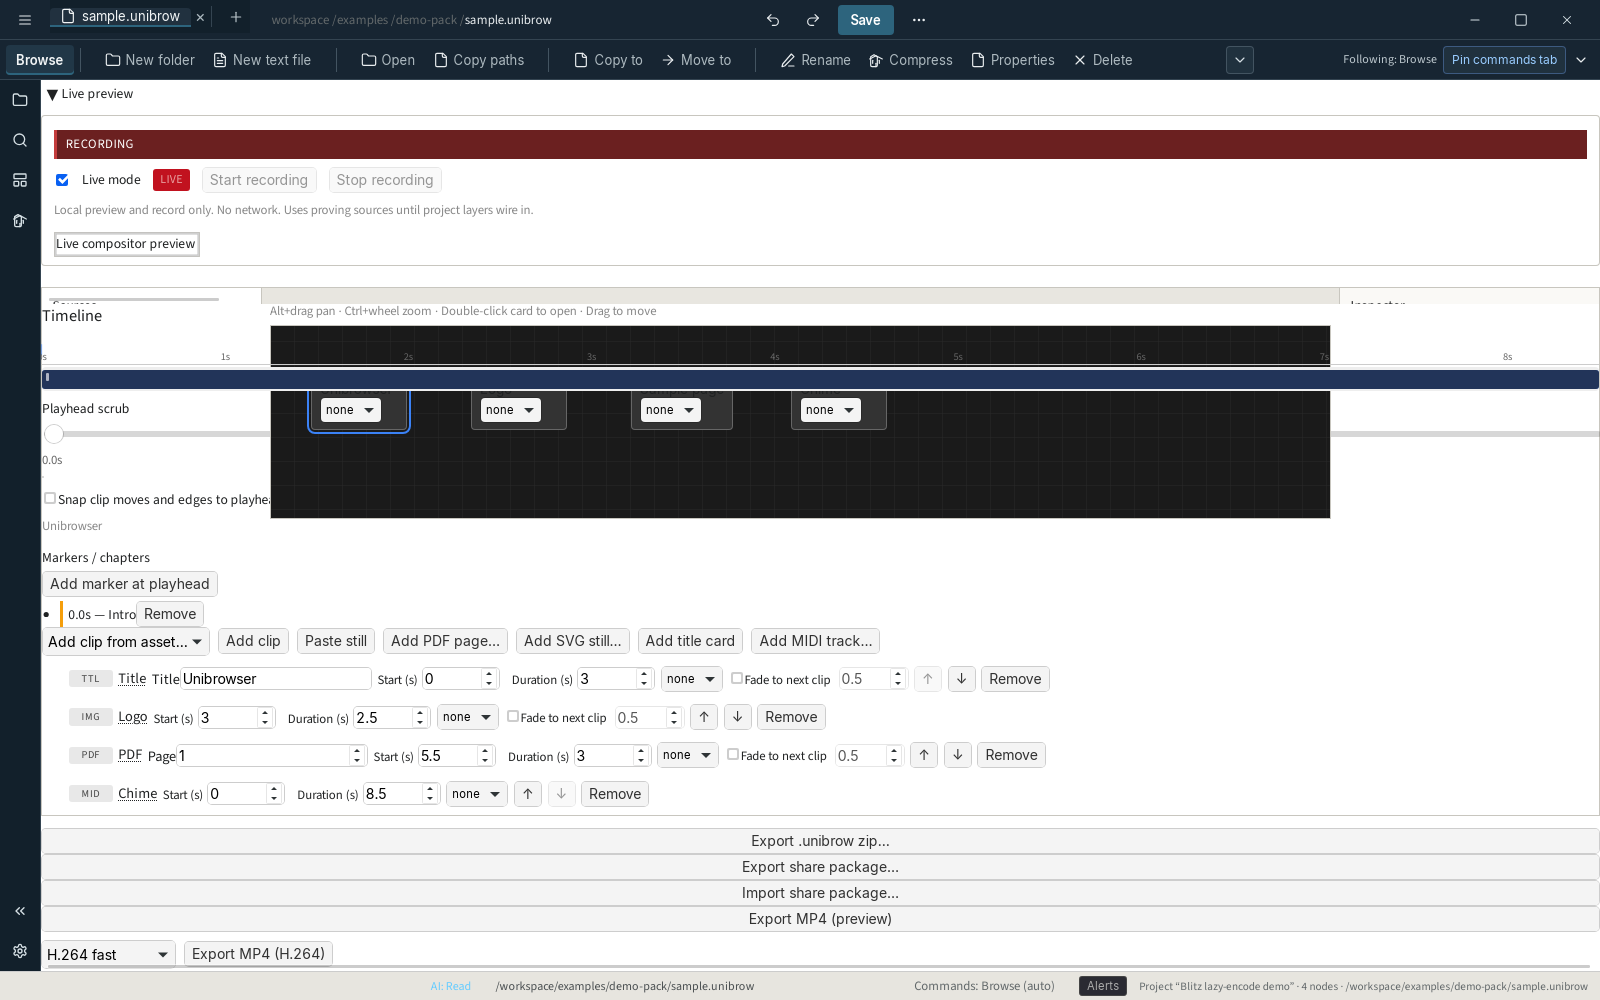
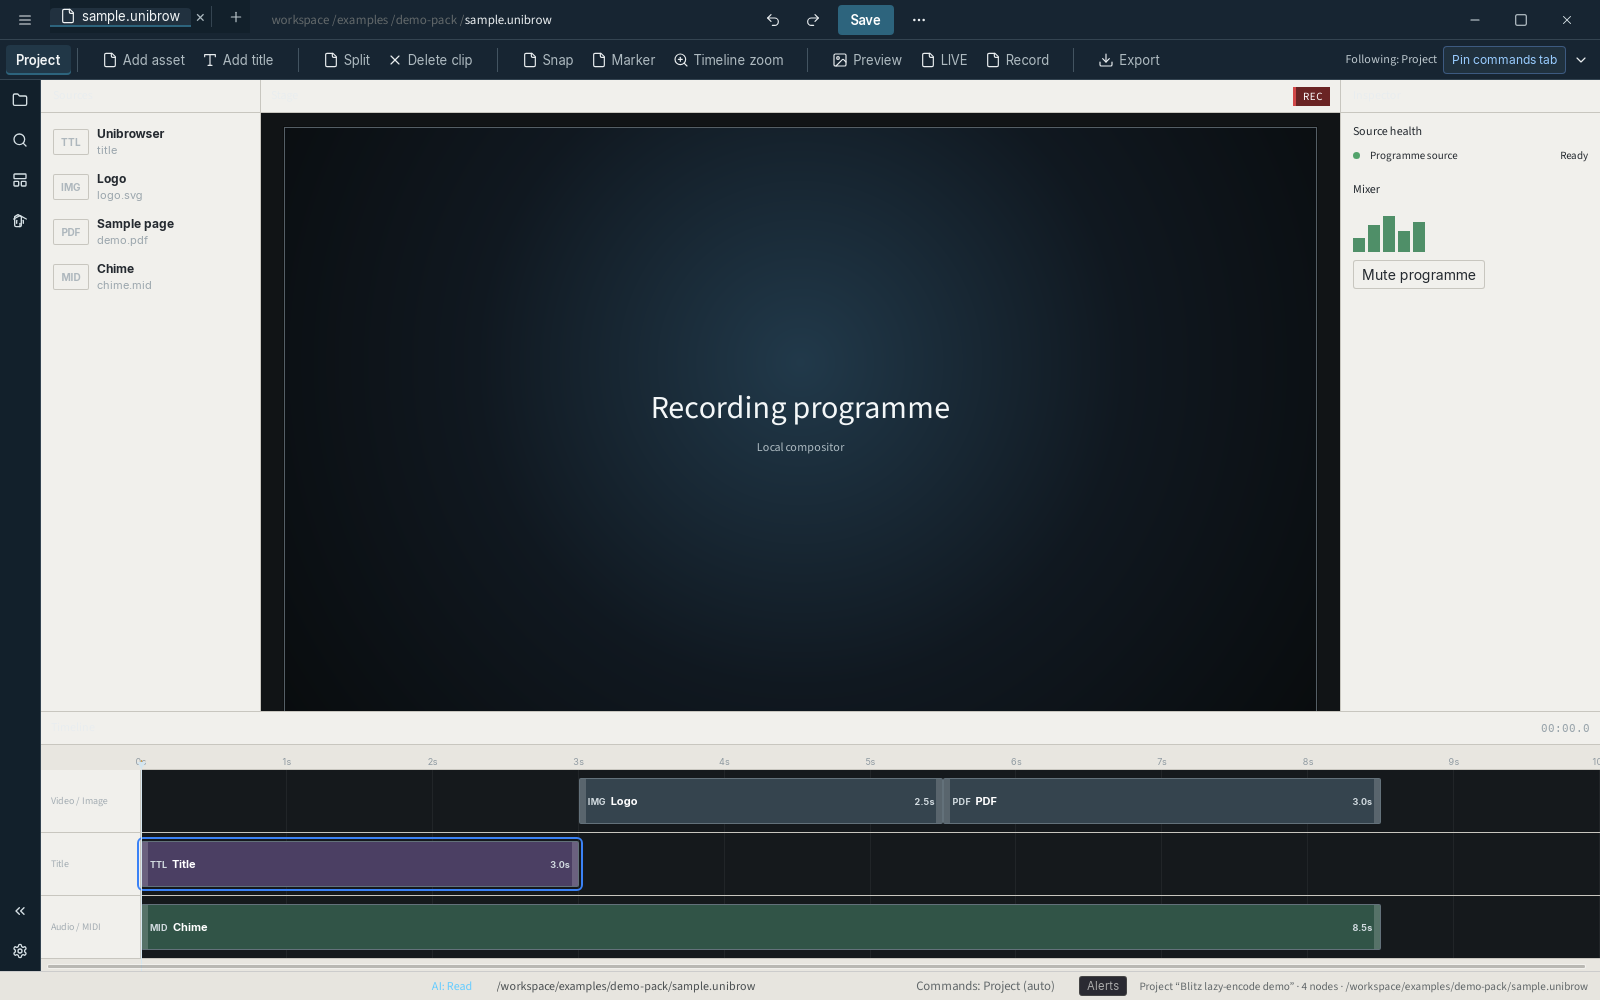
Recapture and grade redesigned workshop matrix

diff --git a/docs/design/ui-16-evidence.md b/docs/design/ui-16-evidence.md
@@ -1,40 +1,71 @@
 # UI-16 evidence
 
-Captured with `scripts/capture-ui-16.sh` after `npm run build` and release
-desktop rebuild. Three 1600x1000 PNGs on `examples/demo-pack/sample.unibrow`
-with shared compact chrome and title card selected. Studio header states differ
-by demo token. Dimension and duplicate-hash checks pass.
+Captured with `scripts/capture-ui-16.sh`. The script runs `npm run build`
+before capture, rebuilds the embedded release frontend, enforces exact
+dimensions, and rejects duplicate hashes. Eight PNGs cover LIVE and Recording
+at 1600x1000 and 1280x800 in light and dark themes.
 
 ## Literal image descriptions
 
-### `unibrow-live-preview-light-1600.png`
-
-Live preview disclosure collapsed at the top of the Create workspace. Board,
-Sources, Inspector, and Timeline match UI-15. No red LIVE banner visible.
-
 ### `unibrow-live-on-light-1600.png`
 
-Live preview section expanded. Studio header reads **LIVE** with red left border;
-Live mode checkbox on; red LIVE badge beside controls; Start recording enabled.
+Project CM remains fixed. The same Sources / Stage / Inspector / Timeline grid
+is visible. Stage header says **LIVE** with a restrained red rule and the Stage
+says `Live programme`. Inspector switches from clip timing to Source health and
+Mixer. Timeline geometry is unchanged and does not overlap the Stage.
 
 ### `unibrow-live-recording-light-1600.png`
 
-Same expanded live section. Studio header reads **RECORDING** on dark red fill;
-Live mode on; LIVE badge visible; recording controls reflect active capture
-(Start recording disabled).
+Same grid and dimensions. Stage header says **REC** in a dark red label and the
+Stage says `Recording programme`. Source health and Mixer remain in Inspector.
+
+### `unibrow-live-on-dark-1600.png`
+
+Dark theme version of LIVE. White programme text, green health/meter marks,
+track labels, and clip text remain readable. No stacked live block exists.
+
+### `unibrow-live-recording-dark-1600.png`
+
+Dark theme Recording state. `REC` and `Recording programme` differ in text and
+emphasis from LIVE while preserving identical geometry.
+
+### `unibrow-live-on-light-1280.png`
+
+Compact light LIVE layout. Stage remains 16:9 between narrow rails; all three
+timeline tracks fit below. Project CM uses overflow without clipping.
+
+### `unibrow-live-recording-light-1280.png`
+
+Compact light Recording layout. `REC` is visible in the Stage header and
+`Recording programme` is centred in the programme frame. Inspector remains
+fully visible.
+
+### `unibrow-live-on-dark-1280.png`
+
+Compact dark LIVE layout. Source names, Stage state, Mixer, and timeline clips
+are readable with no overlap.
+
+### `unibrow-live-recording-dark-1280.png`
+
+Compact dark Recording layout. Same fixed grid; REC state is visible and
+distinct; no content is hidden behind another region.
 
 ## Grade
 
 | State | Result | Basis |
 | --- | --- | --- |
-| Preview | Pass | Preview header distinct from broadcast states; live section collapsed. |
-| LIVE | Pass | Red semantic LIVE header and badge; distinguishable from Preview. |
-| Recording | Pass | Recording header uses stronger red fill; distinct from LIVE-only state. |
+| LIVE light 1600 | Pass | In-grid live Stage, health/mixer Inspector, NLE timeline, no overlap. |
+| Recording light 1600 | Pass | REC text and stronger state label; identical geometry. |
+| LIVE dark 1600 | Pass | Readable dark surfaces and restrained LIVE state. |
+| Recording dark 1600 | Pass | Recording state readable and distinct from LIVE. |
+| LIVE light 1280 | Pass | Responsive fixed grid with Project CM and no clipping. |
+| Recording light 1280 | Pass | REC state and Inspector remain visible. |
+| LIVE dark 1280 | Pass | Compact dark layout remains readable. |
+| Recording dark 1280 | Pass | Compact REC layout has no overlap or clipping. |
 
-Totals: 3 Pass, 0 Drift, 0 Fail.
+Totals: 8 Pass, 0 Drift, 0 Fail.
 
 ## Notes
 
-Mixer, source health, and status-bar redundancy from the full UI-16 spec remain
-follow-up work. Demo tokens sync visible studio header when backend live APIs are
-unavailable in safe capture mode.
+Demo tokens seed visual workshop state without mutating the live backend. Normal
+Project CM LIVE and Record commands still invoke the local live APIs.

diff --git a/docs/design/ui-15-evidence.md b/docs/design/ui-15-evidence.md
@@ -1,40 +1,48 @@
 # UI-15 evidence
 
-Captured with `scripts/capture-ui-15.sh` after `npm run build` and release
-desktop rebuild. One 1600x1000 PNG, light theme, standard contrast, 100% scale,
-compact Command Manager, collapsed activity rail. Demo state `ui15-unibrow-title`
-focuses the title board card (`node-1`). Hash and dimension checks pass.
+Captured with `scripts/capture-ui-15.sh`. The script runs `npm run build`
+before capture, rebuilds the embedded release frontend, enforces exact
+dimensions, and rejects duplicate hashes. Four PNGs cover 1600x1000 and
+1280x800 in light and dark themes.
 
 ## Literal image descriptions
 
 ### `unibrow-create-light-1600.png`
 
-1600x1000. Tab `sample.unibrow` with Save in the title bar. Collapsed **Live
-preview** disclosure at the top (studio header reads Preview when closed).
+Top chrome says **Project** and exposes Add asset, Add title, Split, Delete clip,
+Snap, Marker, Timeline zoom, Preview, LIVE, Record, and Export. Save remains in
+the title bar. The fixed workbench has Sources left, a large centred 16:9 Stage,
+Inspector right, and Timeline across the bottom. Stage shows the selected Title
+composition with white `Unibrowser` text. Inspector contains only selected clip
+Start and Duration fields. Timeline has one ruler, one playhead, and Video /
+Image, Title, and Audio / MIDI tracks with blocks sized by duration. No region
+overlaps or clips.
 
-Joined **Create** workbench grid:
+### `unibrow-create-dark-1600.png`
 
-- **Sources (left):** heading Sources; list of four project nodes (Unibrowser
-  title, Logo, Sample page, Chime) with type and asset hints; add-asset controls
-  and drop target in the rail.
-- **Preview (centre):** recessed grid canvas with four board cards; **Unibrowser**
-  title card selected (blue outline); pan/zoom hint above the well.
-- **Inspector (right):** Label Unibrowser, Type title, Asset —, Position 40 × 48,
-  Title text Unibrowser.
+Same geometry and content in dark theme. Source names, programme title, clip
+labels, duration labels, track names, and Inspector fields remain readable.
 
-**Timeline (bottom dock):** ruler 0–8s, playhead scrubber, markers, clip blocks on
-the track, and per-clip rows (Title, Logo, PDF, MIDI) with timing fields.
+### `unibrow-create-light-1280.png`
 
-Below the timeline: export/share/encode actions (contextual export; global Save
-remains in the title bar). Status bar shows project summary.
+At 1280x800 the Sources and Inspector rails narrow, Stage remains 16:9, and the
+Timeline dock is shorter. Add asset and Add title move into CM overflow while
+the Project family remains active. All four source rows and three tracks remain
+visible.
 
-Command Manager still follows **Browse** while the path is the project folder
-(no dedicated project family yet).
+### `unibrow-create-dark-1280.png`
+
+Same compact geometry in dark theme. The title clip remains selected by a blue
+outline; white clip text and Stage title remain readable. There is no horizontal
+or vertical region overlap.
 
 ## Grade
 
 | Evidence | Result | Basis |
 | --- | --- | --- |
-| Create workspace 1600 | Drift | Sources / preview / inspector grid and bottom timeline match UI-15; title card selected in inspector; Browse CM on project tab and export stack below timeline are known gaps. |
+| Create light 1600 | Pass | Correct Project CM, large Stage, joined rails, NLE tracks, no overlap or clipping. |
+| Create dark 1600 | Pass | Same geometry with readable dark-theme content. |
+| Create light 1280 | Pass | Responsive rails and timeline; Project CM overflows lower-priority Add controls without clipping. |
+| Create dark 1280 | Pass | Compact dark workbench remains readable and in flow. |
 
-Totals: 0 Pass, 1 Drift, 0 Fail.
+Totals: 4 Pass, 0 Drift, 0 Fail.

diff --git a/docs/design/ui-implementation-plan.md b/docs/design/ui-implementation-plan.md
@@ -512,11 +512,12 @@ Screenshot:
 
 **Visual-language impact:** Revised. Timeline tracks are recessed wells; source, preview, inspector, and timeline are joined workbench regions without floating cards.
 
-Status: done 2026-10-07. Joined sources / board preview / inspector grid with
-bottom timeline dock; title card selects into Inspector; Live controls collapse
-into a disclosure until UI-16. Evidence `unibrow-create-light-1600.png` graded
-Drift (Browse CM on project path, export stack below timeline) in
-`docs/design/ui-15-evidence.md`.
+Status: done 2026-10-07 after workshop redesign. One fixed Sources / 16:9 Stage
+/ Inspector grid sits above a three-track NLE timeline. Clip blocks are
+duration-proportional and support move/trim; exact timing is only in Inspector.
+The Project CM replaces Browse and Export opens in Inspector. Four light/dark,
+1600/1280 captures pass in `docs/design/ui-15-evidence.md`. Normative rationale:
+`docs/design/workshop-layout.md`.
 
 Likely files:
 
@@ -544,9 +545,10 @@ Screenshot:
 
 **Visual-language impact:** Revised. Red is reserved for LIVE/recording/error and all broadcast states remain clear without colour.
 
-Status: partial 2026-10-07. Studio header Preview / LIVE / Recording with
-restrained red semantics and three 1600 captures in `docs/design/ui-16-evidence.md`
-(3 Pass). Mixer, source health, and status redundancy still open.
+Status: done 2026-10-07 after workshop redesign. Preview, LIVE, and Recording
+are modes of the same Stage; LIVE/REC use restrained red state labels and
+Inspector switches to source health and Mixer. Eight LIVE/Recording light/dark,
+1600/1280 captures pass in `docs/design/ui-16-evidence.md`.
 
 Likely files:
 
